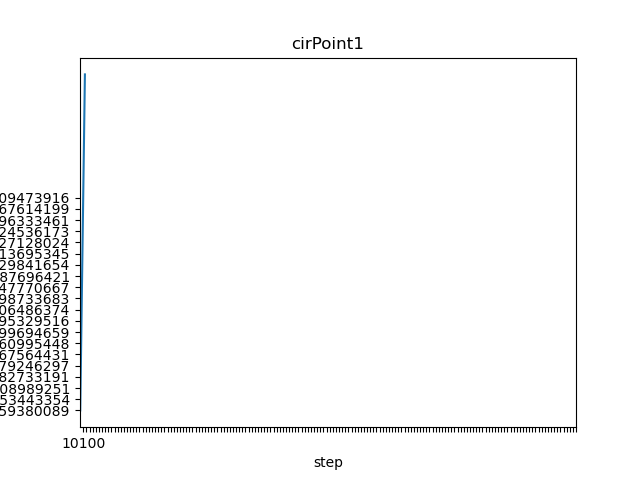
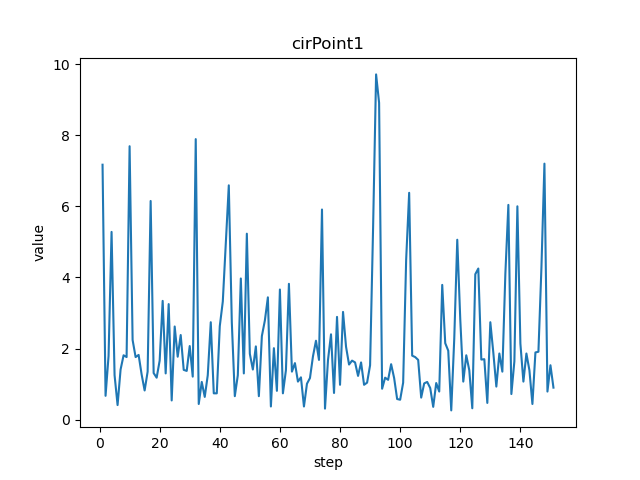
0824

diff --git a/0819/picTran.py b/0819/picTran.py
@@ -33,7 +33,7 @@ for i in txtDirList:
                 # print(line)
                 # print(re_ZiMu.findall(line))
                 if re_ZiMu.findall(line) == []:
-                    print(line)
+                    # print(line)
                     l0.append((re_XiaoShu.findall(line))[0])
                     l1.append((re_XiaoShu.findall(line))[1])
                     # l2.append((re_XiaoShu.findall(line))[2])
@@ -64,11 +64,14 @@ df.to_excel(excelDir,index = False)
 print(len(df.columns))
 print(df.index)
 # print(df[df['flow']>'1000'])
+df[df.columns[0]] = df[df.columns[0]].apply(lambda x : (int(x)//100))# 把100步当作1步
 for i in df.columns:
-    print(i)
+    # print(i)
     if i == df.columns[0]:
         pass
     else:
+        # print(df[i])
+        df[i] = df[i].apply(lambda x:round(float(x),2))  #保留两位小数
         plt.figure(i)
         # ax = plt.subplot(111)
         # plt.title('pic test!')plt.figure("huihui")
@@ -85,10 +88,10 @@ for i in df.columns:
         # ax.yaxis.set_major_locator(ymajorFormatter)
         # a = plt.xlim()[0]
         # b = plt.xlim()[1]
-        plt.xticks(np.arange(100,16000,100))
+        # plt.xticks(np.arange(100,16000,1000))
         
         # c ,d = plt.ylim()[0],plt.ylim()[1]
-        plt.yticks(np.arange(0,100,5))
+        # plt.yticks(np.arange(0,100,5))
         # print(a,b,c,d)
 
 
@@ -104,4 +107,22 @@ for i in df.columns:
         print("done!")
         # a1 = 1
         # b1 = 2
-        c1 = 3
+
+##指定两组数值进行画图匹配
+print('指定若干组进行对比')
+plt.figure('2&3')
+plt.title('2&3')
+# p1 = plt.plot(df[df.columns[0]],df['cirPoint2'])
+# p2 = plt.plot(df[df.columns[0]],df['cirPoint3'])
+plt.plot(df[df.columns[0]],df['cirPoint2'])
+plt.plot(df[df.columns[0]],df['cirPoint3'])
+#xy轴名称
+plt.xlabel('step')
+plt.ylabel("value")
+#设置图例
+# plt.legend([p1,p2],['p2','p3'],loc='upper left')
+plt.legend(['p2','p3'],loc='upper right')
+plt.savefig('cirPoint2&3'+'.png')
+print("done23!")
+
+##含有point的所有数组进行对比
